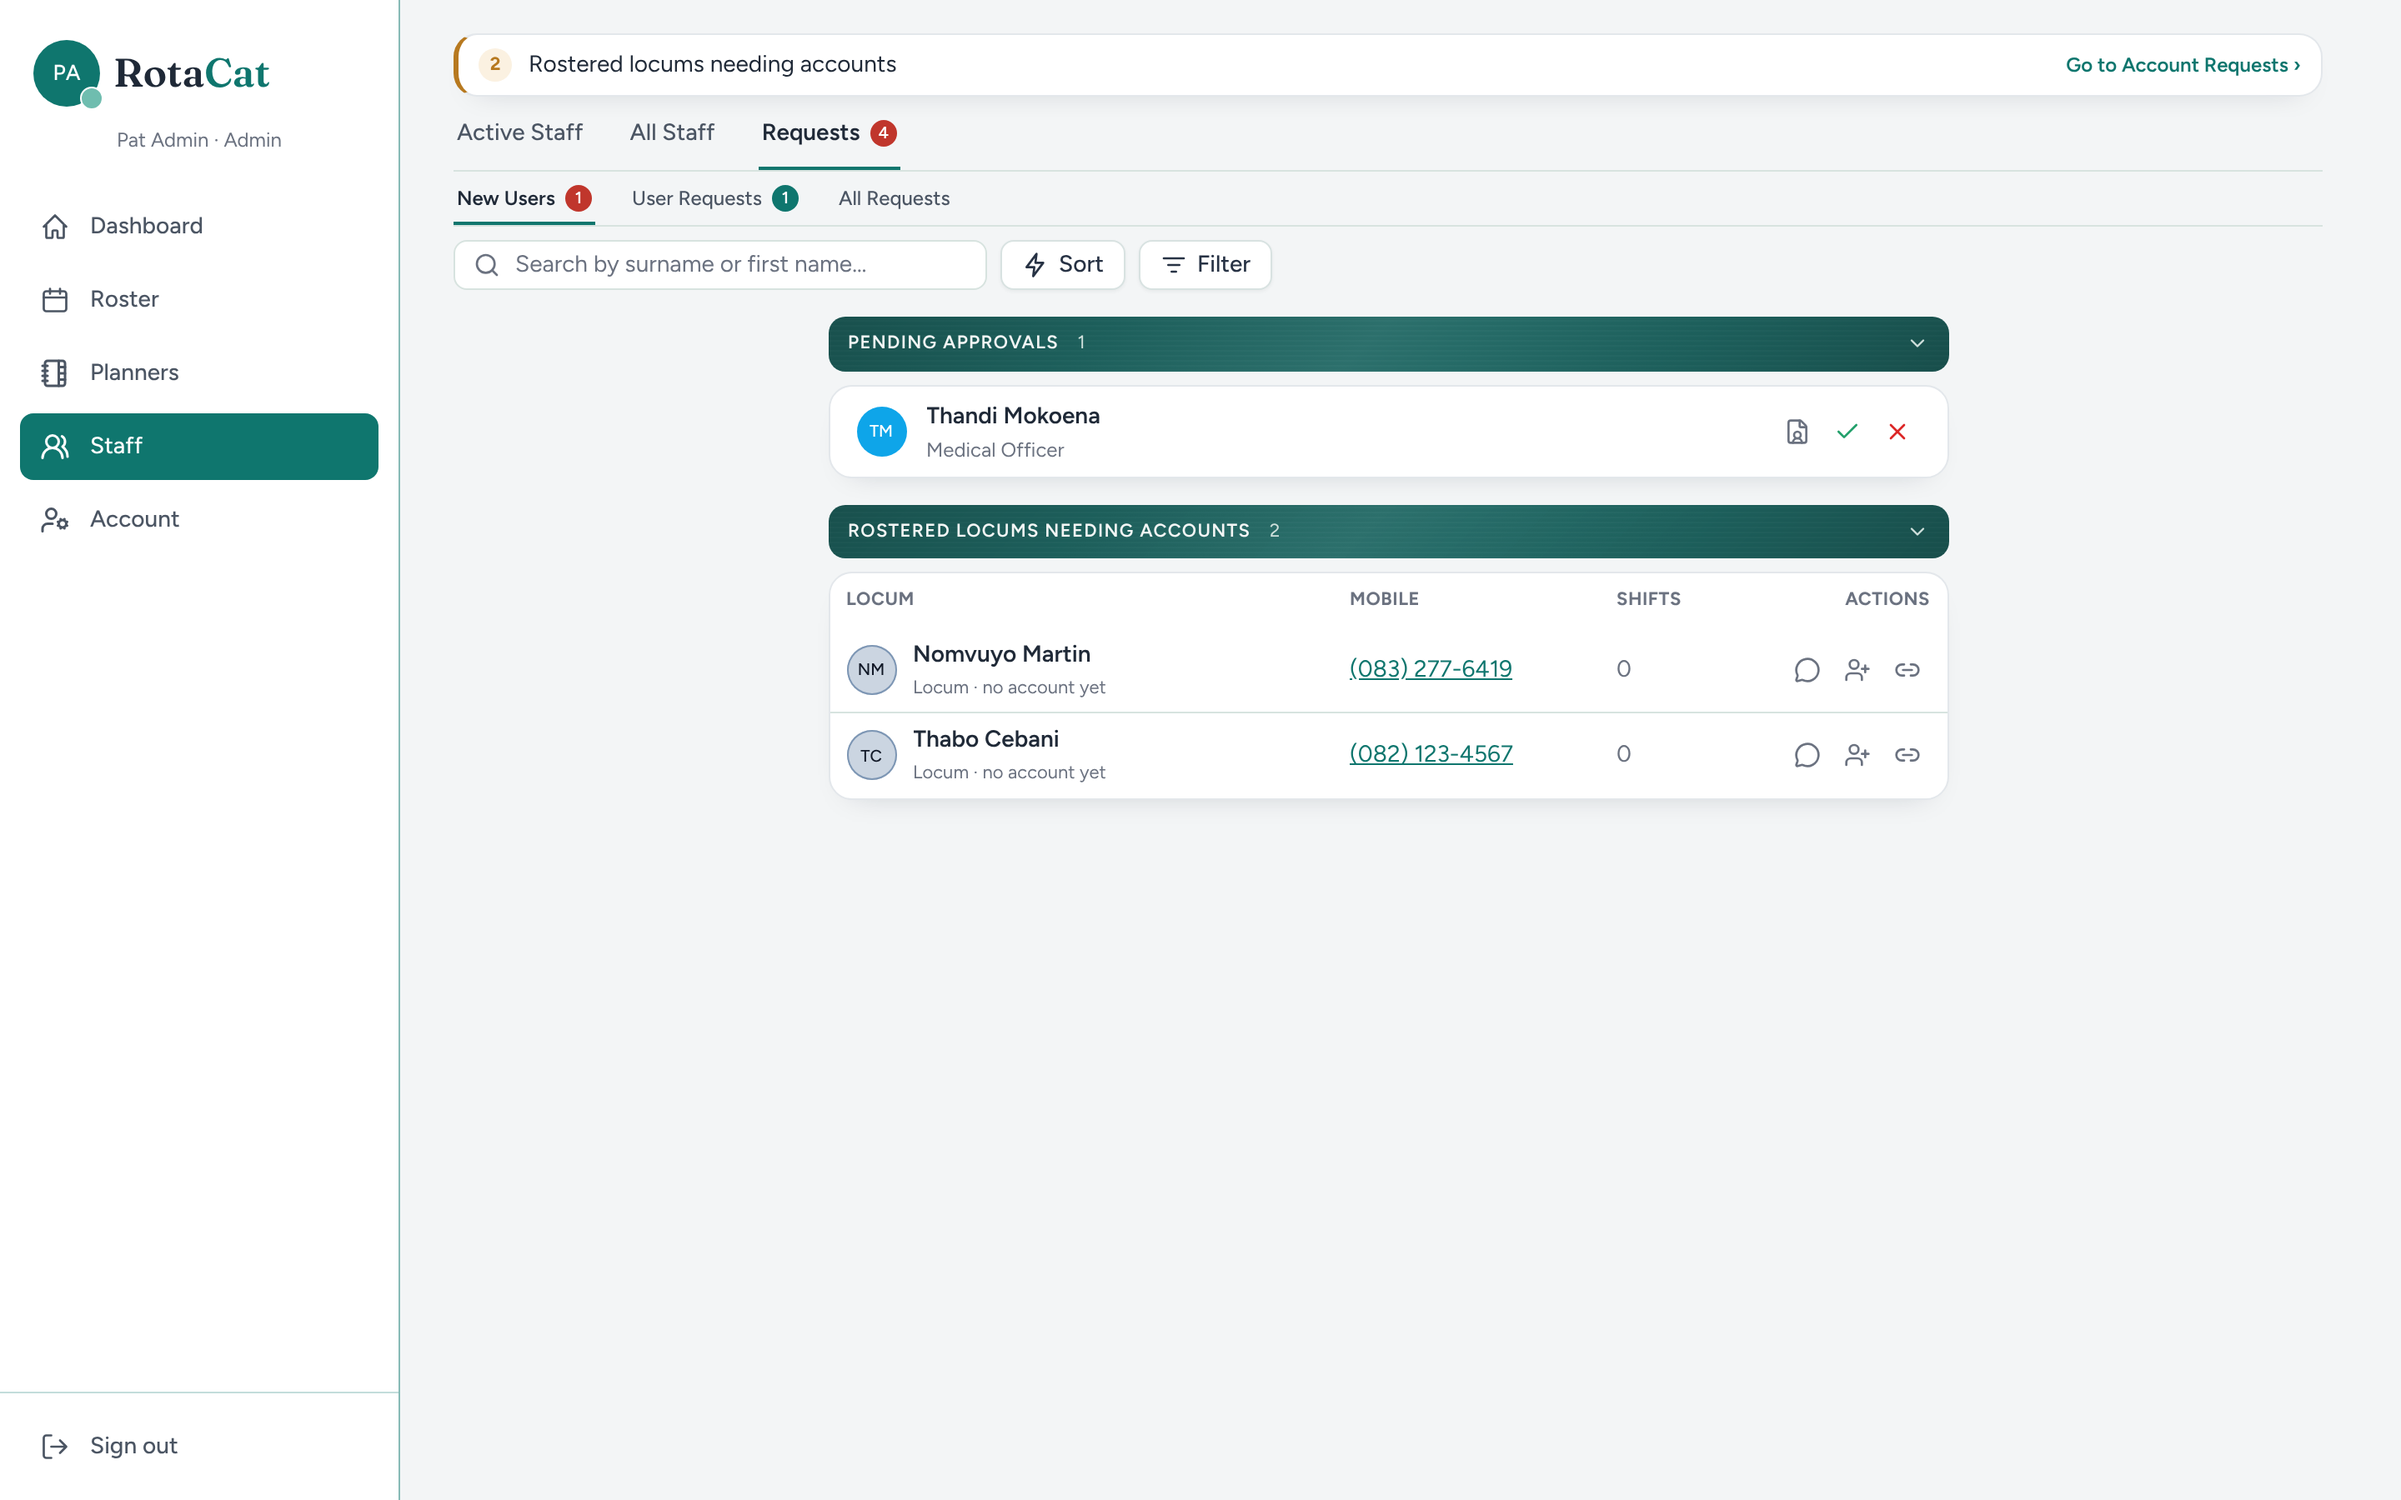
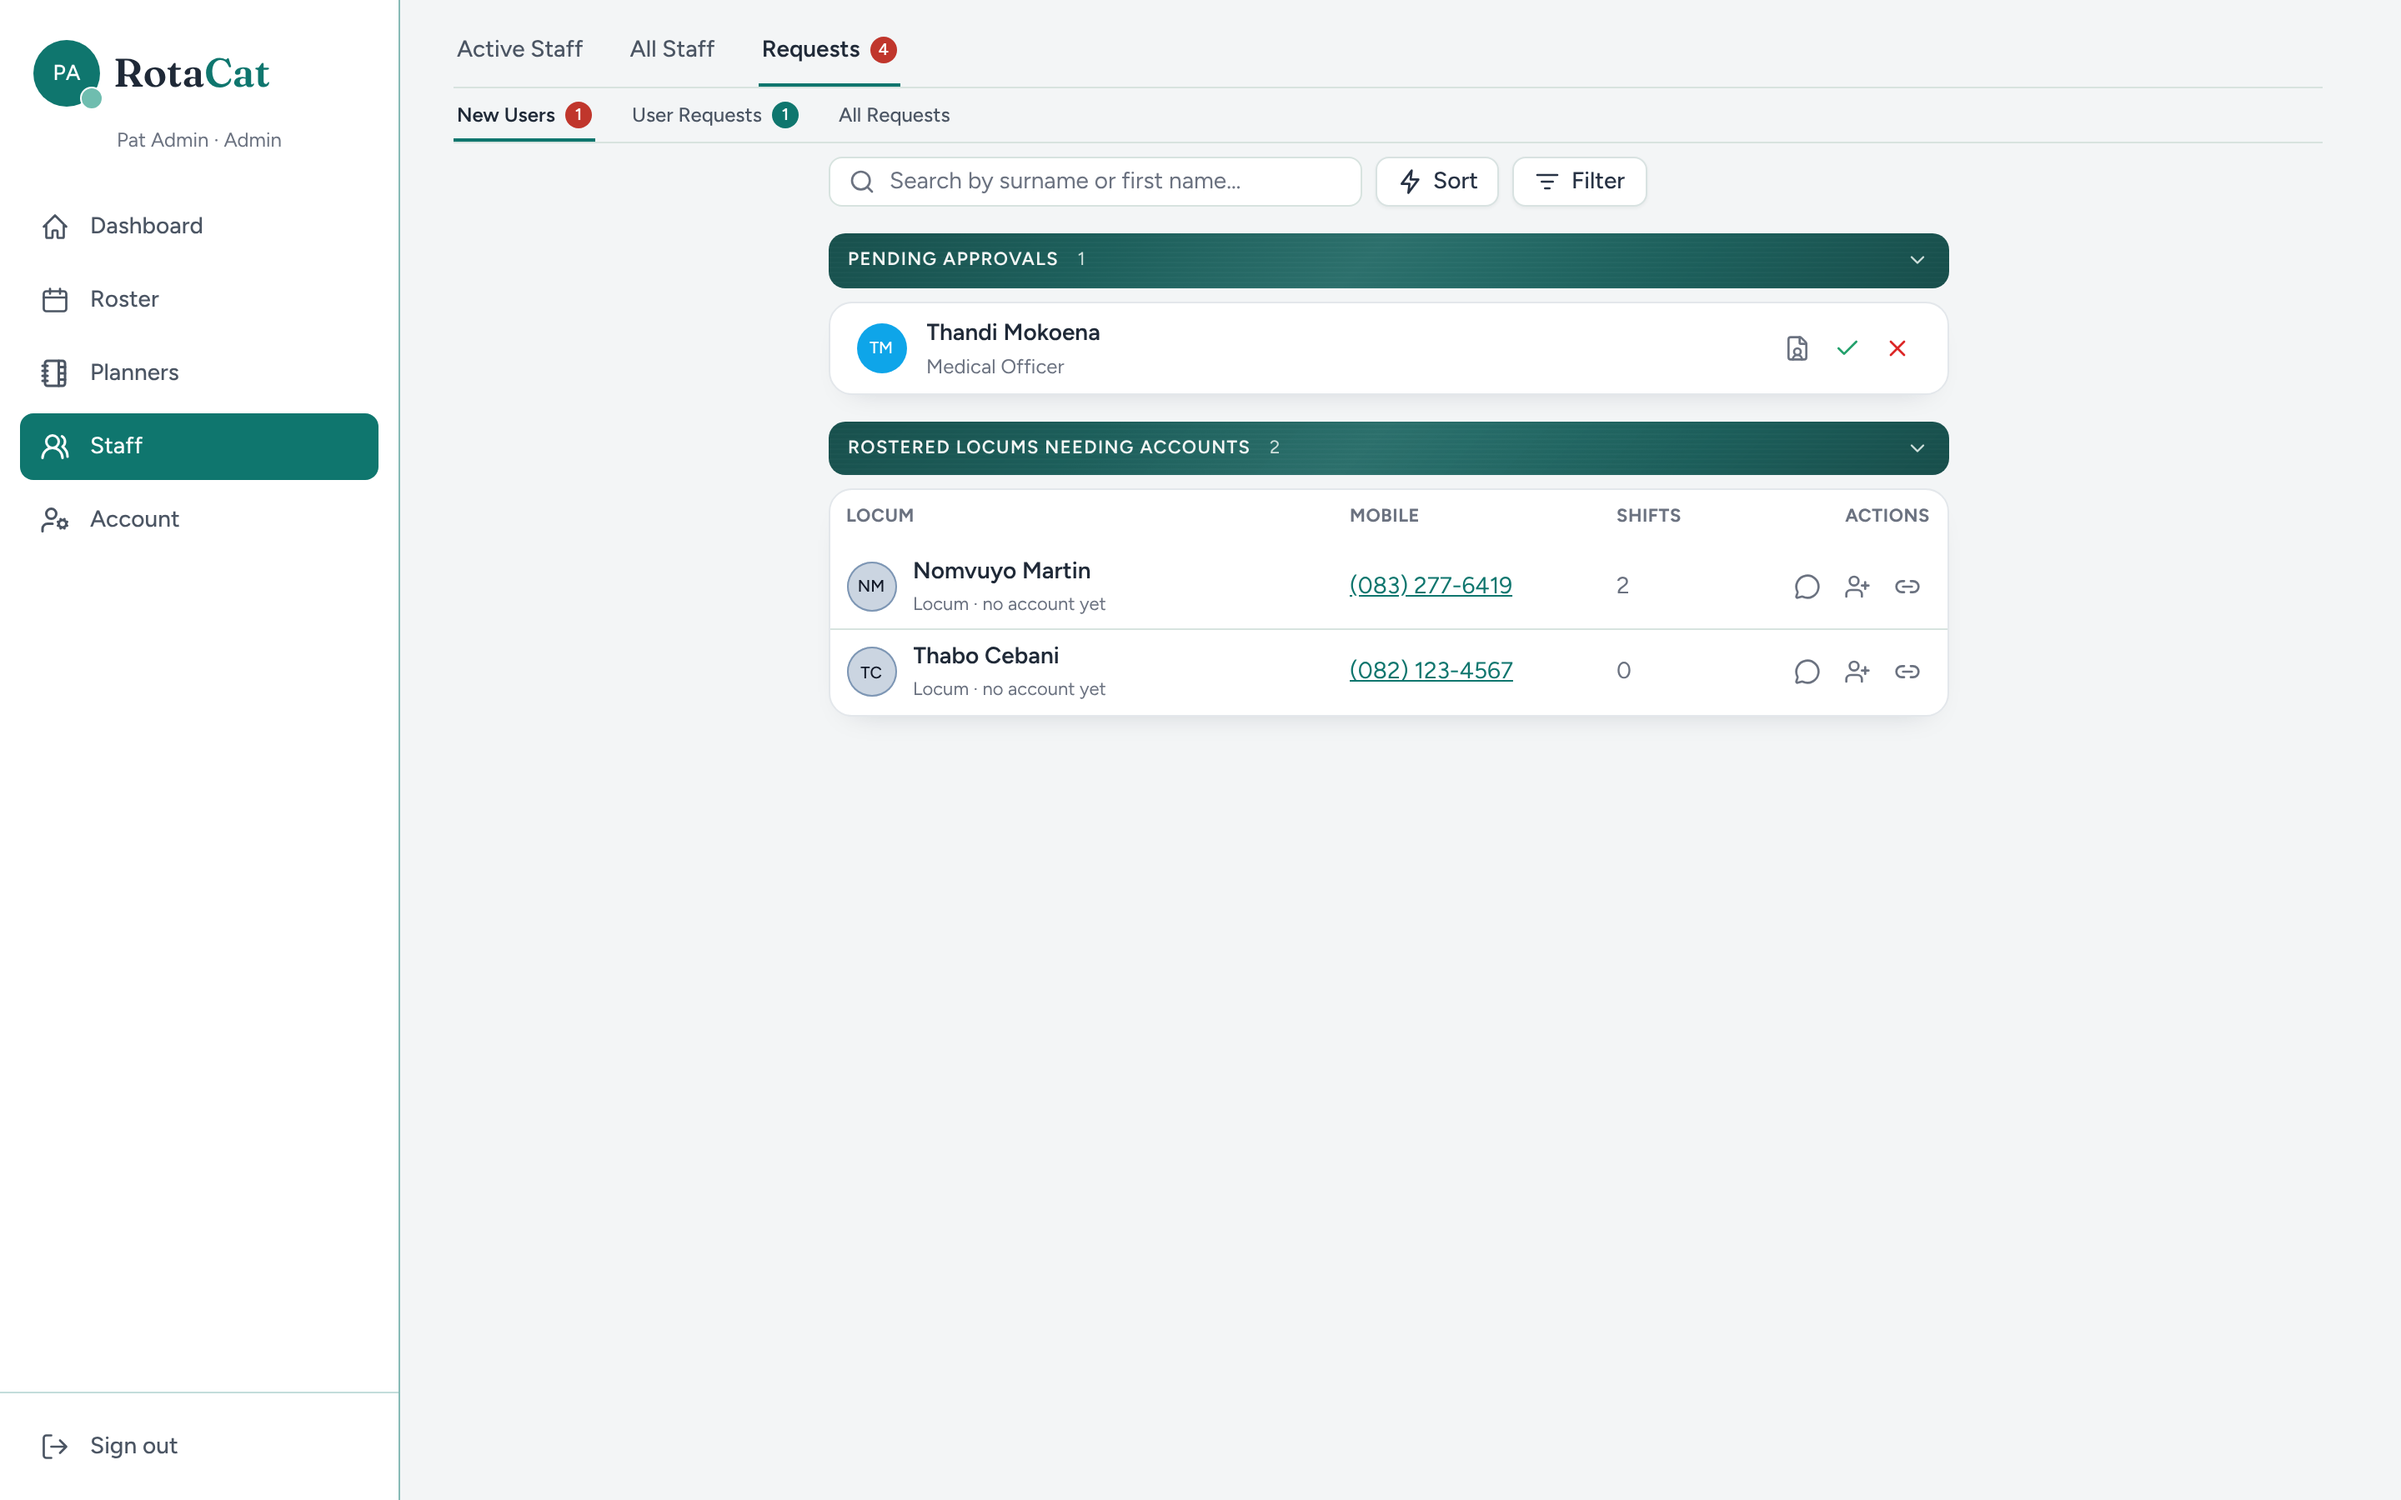
Requests: toolbars span the list's width
Search, Sort, Filter and the date range sit inside the same md:max-w-2xl
column as the cards under them, on every Requests sub-page.

Claude-Session: https://claude.ai/code/session_012j9w9p49MqWz6PXzseFAQy

Changed region(s): [[0.1875, 0.0311, 0.8125, 0.5289], [0.875, 0.0311, 0.9688, 0.0622]]

diff --git a/src/pages/StaffListPage.jsx b/src/pages/StaffListPage.jsx
@@ -1154,7 +1154,7 @@ export default function StaffListPage() {
           const onClearAll = () => { setPendingSearchQuery(''); setPendingRoleFilter('all') }
           return (
             <>
-              <div className="hidden md:block">
+              <div className="mx-auto hidden md:block md:max-w-2xl">
                 <Toolbar
                   className={isAdmin ? 'mt-2' : ''}
                   searchValue={pendingSearchQuery}
@@ -1201,7 +1201,7 @@ export default function StaffListPage() {
           const onClearAll = () => { setRequestsSearchQuery(''); setRequestsRoleFilter('all') }
           return (
             <>
-              <div className="hidden md:block">
+              <div className="mx-auto hidden md:block md:max-w-2xl">
                 <Toolbar
                   className={isAdmin ? 'mt-2' : ''}
                   searchValue={requestsSearchQuery}
@@ -1255,7 +1255,7 @@ export default function StaffListPage() {
           )
           return (
             <>
-              <div className="hidden md:block">
+              <div className="mx-auto hidden md:block md:max-w-2xl">
                 <Toolbar
                   className="mt-2"
                   searchValue={historySearch}
